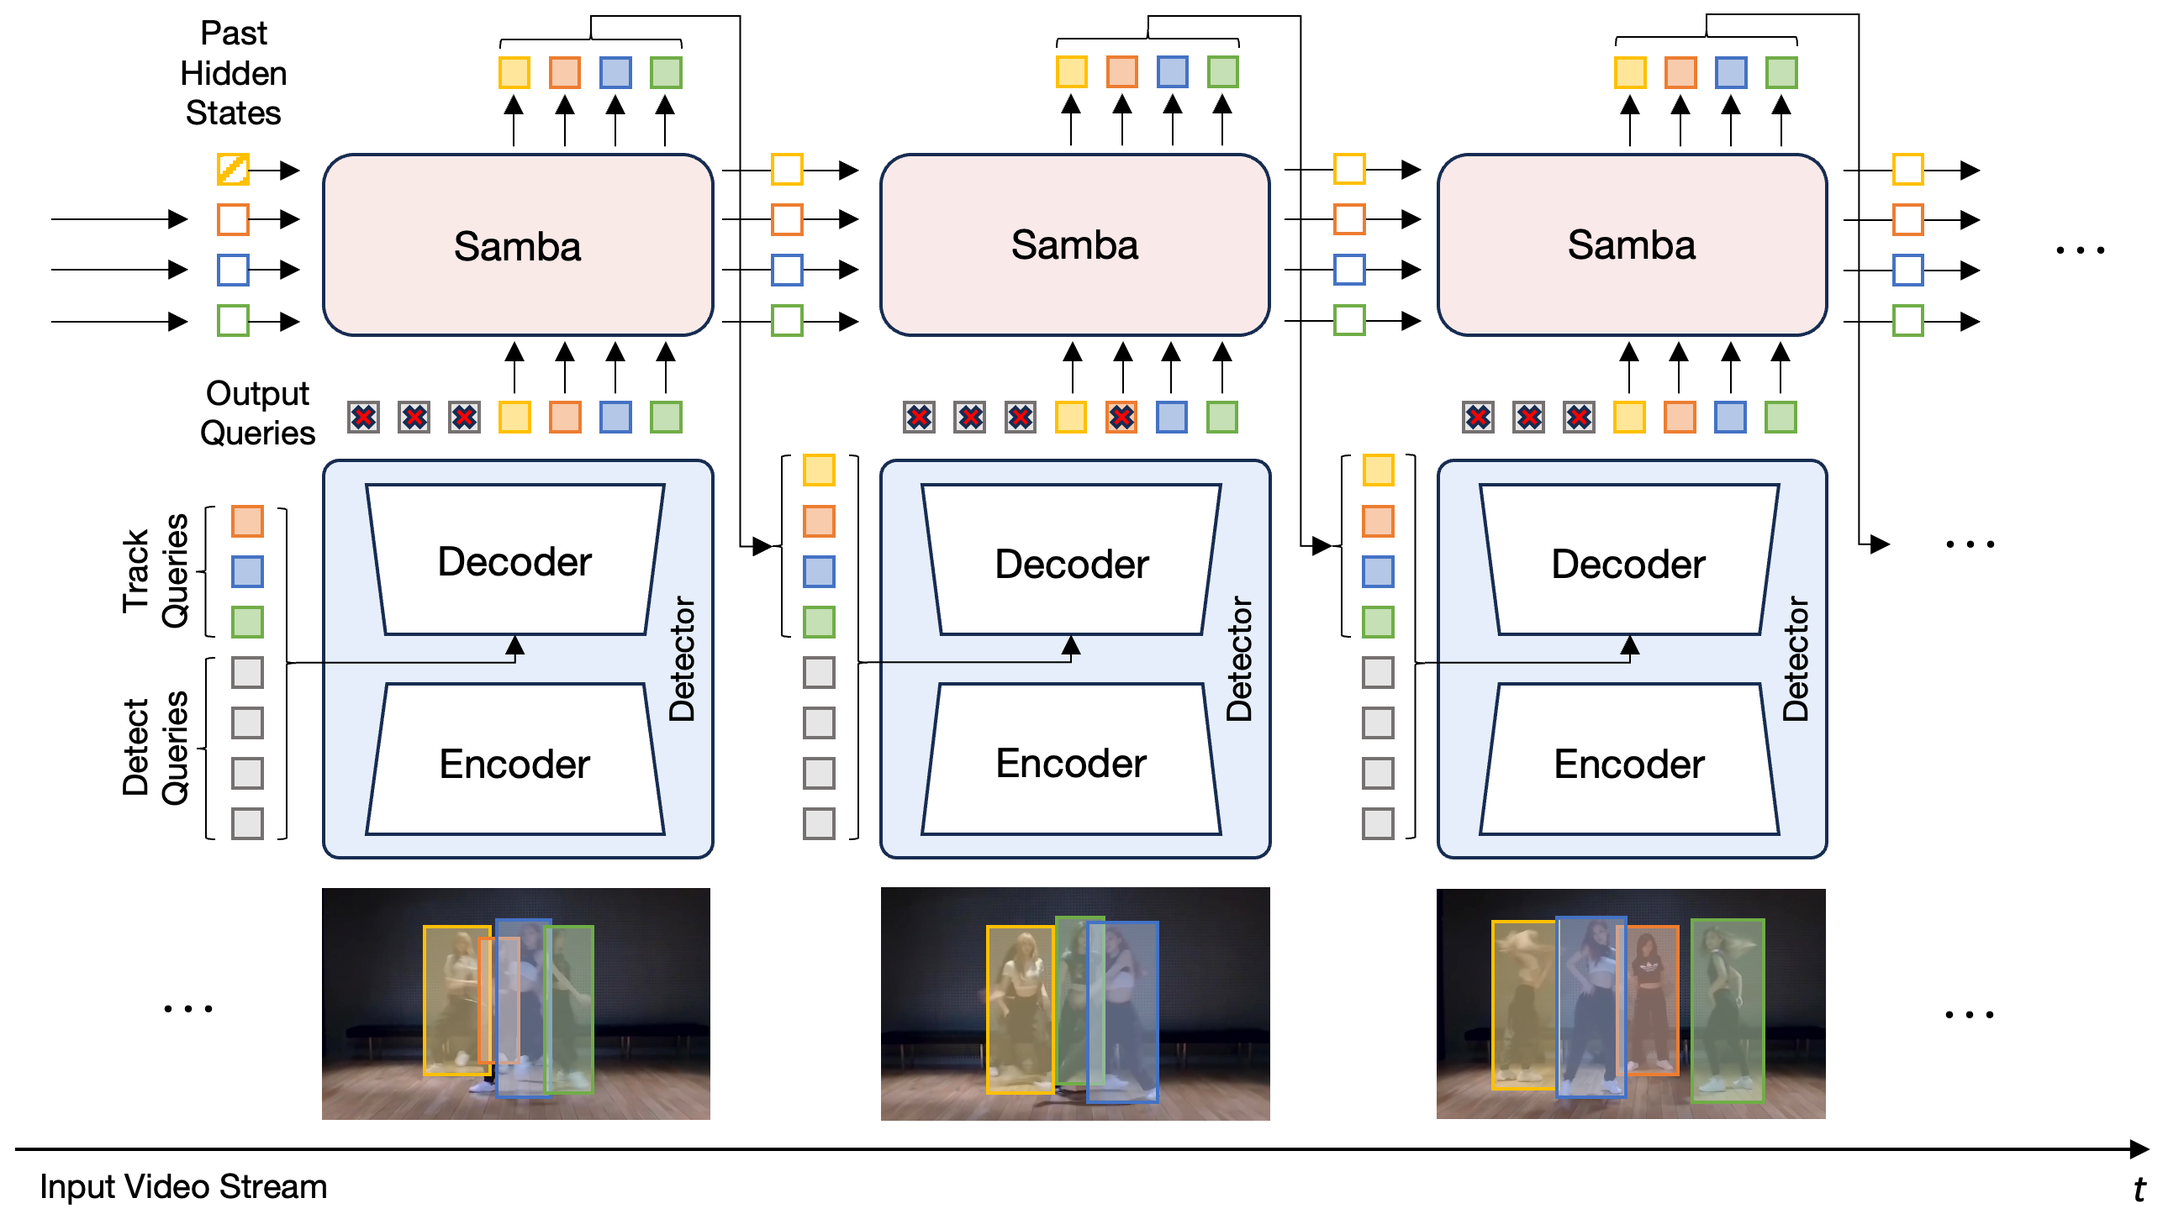
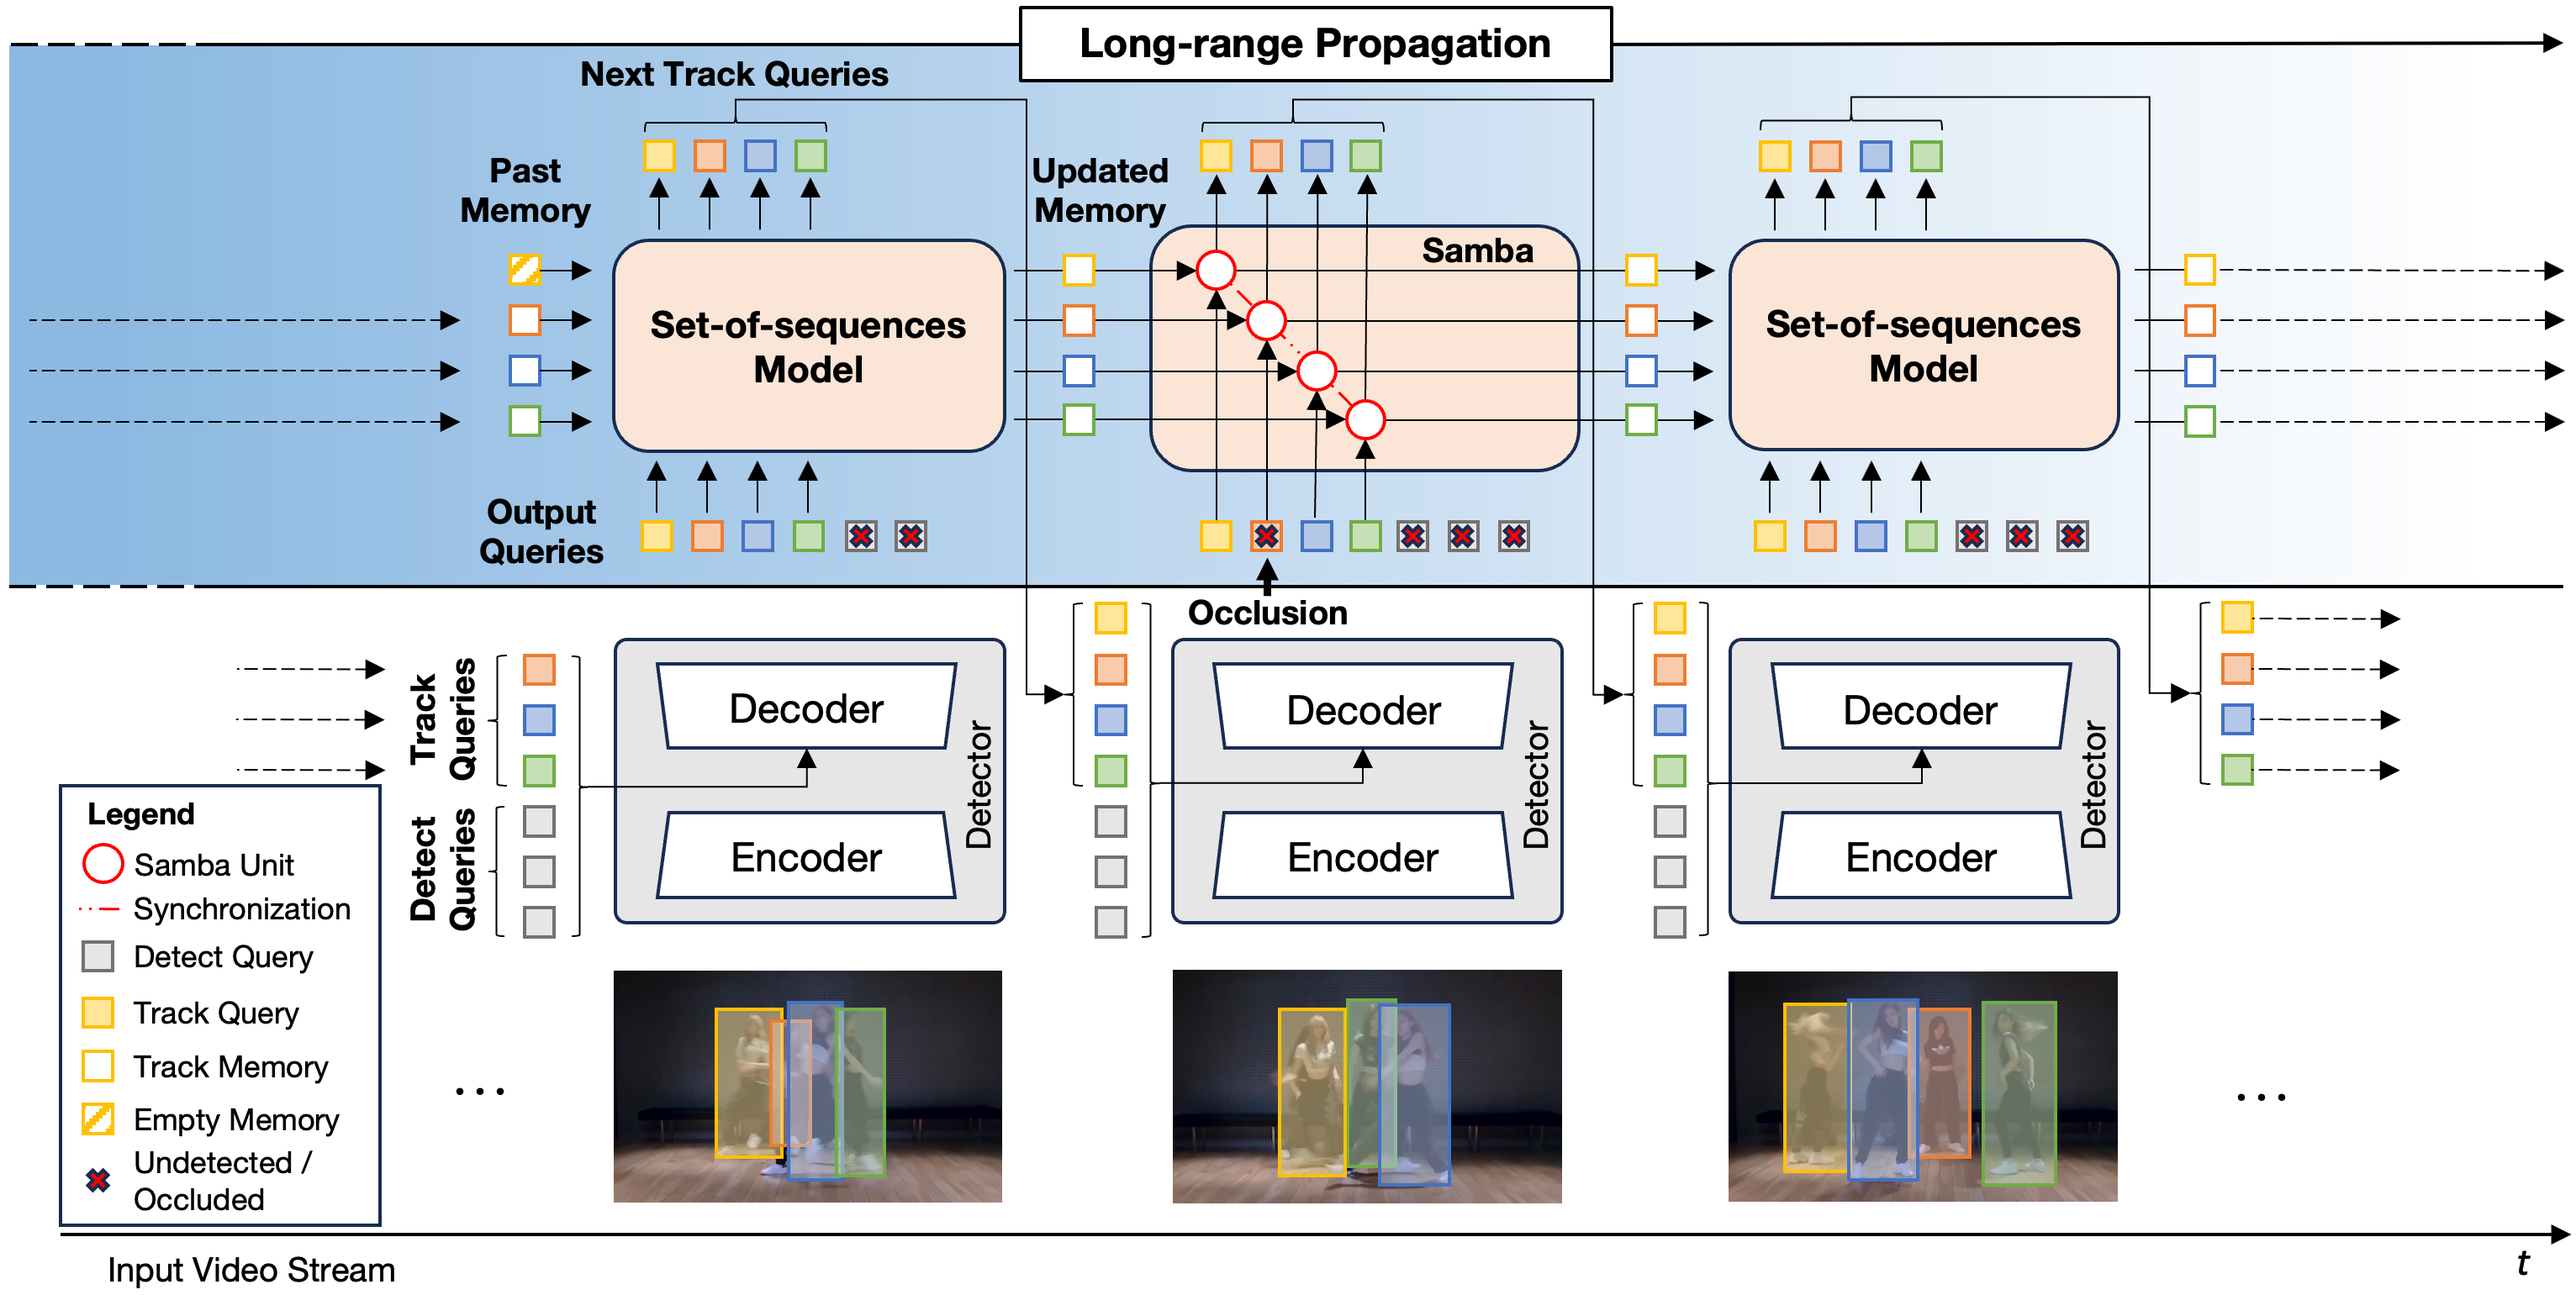
Update with new figures

diff --git a/index.html b/index.html
@@ -44,6 +44,8 @@
   <script defer src="./static/js/fontawesome.all.min.js"></script>
   <script src="./static/js/bulma-carousel.min.js"></script>
   <script src="./static/js/bulma-slider.min.js"></script>
+  <script src="https://polyfill.io/v3/polyfill.min.js?features=es6"></script>
+  <script id="MathJax-script" async src="https://cdn.jsdelivr.net/npm/mathjax@3/es5/tex-mml-chtml.js"></script>
 </head>
 
 <body>
@@ -187,8 +189,7 @@
           <h2 class="title is-3 has-text-centered" style="padding-top: 20px;">Abstract</h2>
           <div class="content has-text-justified">
             <p>
-              Learning long-term memory representations is a critical yet often neglected aspect of many temporal visual tasks, such as multiple object tracking. However, it remains an open research question how to model and handle, in a principled fashion, long-range dependencies within each tracklet, interaction among tracklets, as well as temporal occlusions. In this paper, we propose SambaMOTR, the first end-to-end tracking-by-propagation approach that addresses all these issues. SambaMOTR propagates track queries using Samba, our novel linear-time set-of-sequences model inspired by Mamba and based on our novel synchronized selective state spaces. Samba autoregressively predicts the future track query for each sequence while maintaining its history in hidden states that are synchronized across tracklets. Additionally, we introduce an effective technique for dealing with uncertain observations and an efficient training recipe to scale SambaMOTR to longer sequences. Our approach enables accurate modeling of long-range dependencies and interactions among tracked objects, while implicitly learning object motion and appearance changes without the need for any hand-crafted occlusion-handling heuristics. 
-              Multiple object tracking in complex scenarios, such as dance performances, team sports, or animal groups, presents unique challenges that traditional tracking methods often struggle to address. In these settings, objects frequently move in coordinated patterns, occlude each other, and exhibit long-term dependencies in their trajectories. By accounting for these complex interactions, SambaMOTR can maintain consistent tracking even during occlusions, rapid movements, and densely packed scenes typical in these challenging datasets. SambaMOTR significantly surpasses prior state of the art on the DanceTrack, BFT, and SportsMOT datasets.
+              Multiple object tracking in complex scenarios - such as coordinated dance performances, team sports, or dynamic animal groups - presents unique challenges. In these settings, objects frequently move in coordinated patterns, occlude each other, and exhibit long-term dependencies in their trajectories. However, it remains a key open research question on how to model long-range dependencies within tracklets, interdependencies among tracklets, and the associated temporal occlusions. To this end, we introduce Samba, a novel linear-time set-of-sequences model designed to jointly process multiple tracklets by synchronizing the multiple selective state-spaces used to model each tracklet. Samba autoregressively predicts the future track query for each sequence while maintaining synchronized long-term memory representations across tracklets. By integrating Samba into a tracking-by-propagation framework, we propose SambaMOTR, the first tracker effectively addressing the aforementioned issues, including long-range dependencies, tracklet interdependencies, and temporal occlusions. Additionally, we introduce an effective technique for dealing with uncertain observations (MaskObs) and an efficient training recipe to scale SambaMOTR to longer sequences. By modeling long-range dependencies and interactions among tracked objects, SambaMOTR implicitly learns to track objects accurately through occlusions without any hand-crafted heuristics. Our approach significantly surpasses prior state-of-the-art on the DanceTrack, BFT, and SportsMOT datasets.
             </p>
           </div>
         </div>
@@ -215,7 +216,7 @@
             <img width="100%" src="./static/images/sambamotr.png" alt="SambaMOTR model architecture"/>
 
             <p>
-              SambaMOTR is composed of a transformer-based object detector and a Samba module. The object detector's encoder extracts image features from each frame, which are fed into its decoder together with detect and track queries to detect newborn objects or re-detect tracked ones. The Samba module simultaneously processes the past hidden states and currently observed output queries for all tracklets to predict the next track queries and update the hidden states. The hidden states of newborn objects are initialized from zero values (barred squares). In case of occlusions, the current observation is disregarded (red cross) during the Samba update. 
+              SambaMOTR combines a transformer-based object detector with a set-of-sequences Samba model. The object detector's encoder extracts image features from each frame, which are fed into its decoder together with detect and track queries to detect newborn objects or re-detect tracked ones. The Samba set-of-sequences model is composed of multiple synchronized Samba units that simultaneously process the past memory and currently observed output queries for all tracklets to predict the next track queries and update the track memory. The hidden states of newborn objects are initialized from zero values (barred squares). In case of occlusions or uncertain detections, the corresponding query is masked (red cross) during the Samba update. 
             </p>
           </div>
         </div>
@@ -234,24 +235,32 @@
           <h2 class="title is-3 has-text-centered" style="padding-top: 20px;">Samba: Synchronized Set-of-Sequences Modeling</h2>
           <div class="content has-text-justified">
             <h3 class="title has-text-centered" style="padding-top: 20px;">
-              Synchronized Selective State Space Models
+              Synchronized Selective State-Space Models
             </h3>
 
-            <img width="100%" src="./static/images/ssm.png" alt="Synchronized Selective State Space Model"/>
+            <img width="100%" src="./static/images/ssm.png" alt="Synchronized Selective State-Space Model"/>
 
-            <p>
+            <!-- <p>
               We illustrate a set of <i>k</i> selective state space models whose hidden states <i>h<sup>i</sup><sub>t</sub></i> updated with the current observations <i>x<sup>i</sup><sub>t</sub></i> are synchronized by our state synchronization block to derive the synchronized hidden state <i>&#772;h<sup>i</sup><sub>t</sub></i>, used to predict the output <i>y<sup>i</sup><sub>t</sub></i>.
+            </p> -->
+
+            
+            <p>We illustrate a set of <span class="equation">\( k \)</span> synchronized SSMs. A Long-Term Memory Update block updates each hidden state 
+              <span class="equation"> \( \tilde{h}_{t-1}^i \) </span> based on the current observation 
+              <span class="equation"> \( x_t^i \) </span>, resulting in the updated memory 
+              <span class="equation"> \( h_t^i \) </span>. The Memory Synchronization block then derives the synchronized hidden state 
+              <span class="equation"> \( \tilde{h}_t^i \) </span>, which is fed into the Output Update module to predict the output 
+              <span class="equation"> \( y_t^i \) </span>.
             </p>
 
             <h3 class="title has-text-centered" style="padding-top: 20px;">
-              Samba Module
+              Set-of-sequences Model
             </h3>
 
 
-            <img width="100%" src="./static/images/samba_block.png" alt="Samba model architecture"/>
-
+            <img width="100%" src="./static/images/set-of-sequences.png" alt="Samba model architecture"/>
             <p>
-              A Samba block is composed of multiple Mamba blocks with shared weights and a state synchronization block that synchronizes hidden states across the individual state space models. A stack of N Samba blocks constitutes a Samba module.
+              Our set-of-sequences model Samba simultaneously processes an arbitrary number <span class="equation">\( M \)</span> of input sequences. Each sequence is processed by a Samba unit, synchronized with the others thanks to our synchronized state-space model. All Samba units share weights and are composed of a stack of <span class="equation">\( N \)</span>  Samba blocks. A Samba block has the same architecture as a Mamba block, but it adopts our synchronized SSM to synchronize long-term memory representations across the individual SSMs.
             </p>
           </div>
         </div>
@@ -434,4 +443,3 @@
 
 </body>
 </html>
-
